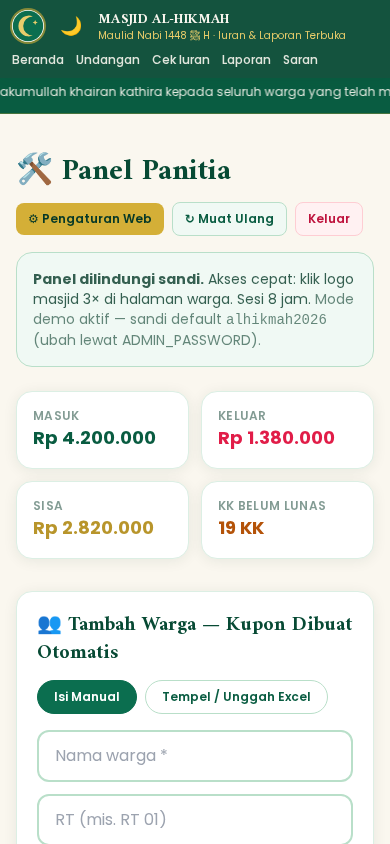
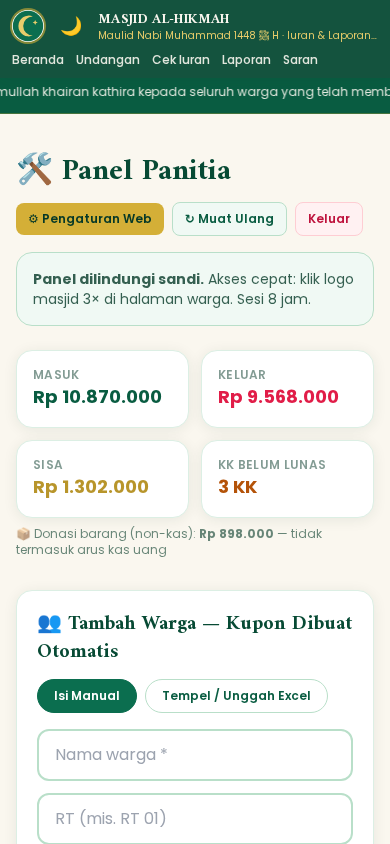
restore konten asli: README gabungan (dokumentasi detail versi awal + hasil pemakaian nyata 85 KK / 82 lunas / kas 10,87 jt), screenshot dari web sungguhan dkm-alhikmah

diff --git a/README.md b/README.md
@@ -1,13 +1,13 @@
 <div align="center">
 
-# 🕌 LPJ Digital untuk Masjid & DKM
+# 🕌 LPJ Digital — Maulid Nabi ﷺ
 
-**Platform laporan pertanggungjawaban yang transparan, realtime, dan gratis —**
-dari iuran warga sampai LPJ siap cetak.
+**Platform laporan pertanggungjawaban transparan untuk masjid & DKM —**
+kupon iuran otomatis, kas live, notifikasi WhatsApp, sampai LPJ siap cetak.
 
-Next.js · Supabase · Vercel · Fonnte (WhatsApp)
+Next.js · Supabase · Vercel · Fonnte (WhatsApp) · **Total biaya: Rp 0**
 
-**[Coba 2 Menit](#-coba-dulu-tanpa-instal-apa-apa) · [Pasang Sendiri](#-pasang-sendiri-gratis-3045-menit) · [Fitur Lengkap](#-fitur)**
+**[Coba 2 Menit](#-menjalankan-mode-demo--tanpa-setup) · [Pasang Sendiri](#-beralih-ke-data-sungguhan-supabase--gratis) · [Hasil Pemakaian Nyata](#-hasil-pemakaian-nyata)**
 
 </div>
 
@@ -20,34 +20,27 @@ Proyek ini lahir dari kebutuhan nyata: **warga minta transparansi, panitia kewal
 > "Uang iuran saya sudah masuk belum?" — pertanyaan yang tiap hari harus
 > dijawab bendahara dengan buka Excel satu per satu.
 
-Untuk Maulid Nabi ﷺ 1448 H, DKM Masjid Al-Hikmah membangun platform ini
-agar **seluruh warga bisa melihat kas secara realtime** — dan saat LPJ
-dibacakan di pengajian, semua angka sudah terbuka, berjalan sendiri,
-lengkap dengan bukti nota.
+Untuk Maulid Nabi ﷺ 1448 H, DKM Masjid Al-Hikmah (Desa Margamulya) membangun
+platform ini agar seluruh warga bisa melihat kas secara realtime. Saat LPJ
+dibacakan di pengajian, semua angka sudah terbuka, berjalan sendiri, lengkap
+dengan bukti nota — dan warga bisa cek sendiri kwitansi iurannya dari HP.
 
-Sekarang kodenya dibagikan **gratis** supaya masjid, mushala, dan DKM
-lain tidak perlu mulai dari nol. **Semoga menjadi amal jariyah.** 🤲
+Sekarang kodenya dibagikan **gratis** supaya masjid, mushala, dan DKM lain
+tidak perlu mulai dari nol. **Semoga menjadi amal jariyah.** 🤲
 
-## ✨ Fitur
+## 📊 Hasil Pemakaian Nyata
 
-**Untuk warga (tanpa login):**
-- 🏠 **Beranda** — progres kas realtime, jadwal sholat, social proof tamu & saran warga
-- 🔎 **Cek Iuran** — cari nama / scan QR kupon → kwitansi digital (sudah bayar / belum)
-- 📊 **Laporan** — arus kas lengkap + foto bukti nota tiap pengeluaran
-- 💌 **Undangan** — RSVP + hitung mundur hari-H
-- 📜 **Proposal** — halaman sponsor interaktif dengan CTA donasi
-- 💬 **Kotak Saran** — masukan warga, tampil setelah dimoderasi
+Ini bukan proyek laboratorium — web ini dipakai sungguhan untuk
+[Maulid Nabi ﷺ 1448 H](https://dkm-alhikmah.vercel.app):
 
-**Untuk panitia (sandi):**
-- 🔐 Panel admin — akses lewat klik logo 3× atau `/admin/login`
-- 👥 CRUD warga — tempel dari Excel, anti-dobel, kelas iuran otomatis (K1/K2/K3/Sponsor)
-- 🎟 Kupon ber-QR — cetak A4 per kelas, kirim via WhatsApp per warga
-- 💰 Catat kas — pemasukan/pengeluaran + upload foto nota (maks 4 MB)
-- 📦 **Donasi barang terpisah dari kas uang** (non-kas, tampil terpisah)
-- 📱 Notifikasi WhatsApp otomatis ke grup panitia (via Fonnte, gratis)
-- ⏰ Rekap harian otomatis jam 20:00 WIB (Vercel Cron) — berhenti sendiri setelah acara
-- 🖨 LPJ siap cetak/PDF (desktop: tabel rapi, HP: kartu)
-- 🌙 Mode gelap + responsif penuh di HP
+- **85 KK** didata dengan kelas ancalah (K1 Rp 150rb · K2 Rp 100rb · K3 Rp 75rb · Sponsor)
+- **82 KK lunas (96%)** — kas masuk **Rp 10.870.000**, donasi barang **Rp 898.000** (non-kas)
+- **121 transaksi** tercatat lengkap dengan foto nota
+- Rekap otomatis ke grup WhatsApp panitia setiap malam
+- LPJ diumumkan terbuka di pengajian — warga cek sendiri lewat HP masing-masing
+
+Semua tangkapan layar di bawah adalah **data sungguhan** dari web tersebut
+(tidak ada informasi rahasia — memang dibuat untuk terbuka).
 
 ## 📸 Tangkapan Layar
 
@@ -59,57 +52,86 @@ lain tidak perlu mulai dari nol. **Semoga menjadi amal jariyah.** 🤲
 |---|---|
 | ![Laporan](docs/img/laporan.png) | ![Admin](docs/img/admin.png) |
 
-*(Semua tangkapan layar memakai data contoh / mode demo.)*
+## ✨ Fitur
 
-## 🚀 Coba Dulu (Tanpa Instal Apa-apa)
+**Halaman publik (tanpa login):**
+- 🏠 **Beranda** — progress dana live, rekap "X dari Y KK sudah lunas",
+  jadwal sholat harian (API aladhan, metode Kemenag, highlight waktu
+  berikutnya + tanggal hijriah), galeri dokumentasi dengan lightbox,
+  social proof tamu & saran warga
+- 🔎 **`/cek-iuran`** — ketik nama (mis. *Asep*) atau kode kupon (*MLD-0001*)
+  → status + **kwitansi digital** (juga bisa lewat scan QR kupon)
+- 📊 **`/laporan`** — rincian kas masuk/keluar, **klik gambar nota** untuk
+  melihat bukti, donasi barang tampil terpisah (non-kas)
+- 💌 **`/undangan`** — undangan digital + rundown + **konfirmasi kehadiran
+  (RSVP)** — nama yang konfirmasi langsung tampil live sebagai calon tamu
+- 📜 **`/proposal`** — proposal sponsor digital interaktif, bisa
+  dipersonalisasi per sponsor (`/proposal?untuk=Nama`), CTA donasi sesuai
+  minat (transfer/kas, sumbang barang, atau tanya panitia dulu)
+- 💬 **`/kotak-saran`** — saran warga (masuk moderasi dulu), tampil sebagai
+  kartu testimonial
+
+**Panel panitia (dilindungi sandi):**
+- 🔐 Akses: **klik logo masjid 3×** di halaman mana pun → login.
+  Login tahan-banting: token di memori + localStorage + cookie + hash URL,
+  sesi 8 jam. Sandi default mode demo: `alhikmah2026` (ganti via `ADMIN_PASSWORD`)
+- 👥 **Tambah warga masal**: manual / tempel daftar / unggah Excel (.xlsx)
+  atau CSV — kolom `Nama; RT; Alamat; Nominal; Kelas` dikenali otomatis,
+  **anti-dobel** (nama sama tidak masuk dua kali)
+- 🎟 **`/admin/kupon`** — cetak kupon per kelas atau khusus sponsor
+  (desain emas, dicetak terpisah), A4 10 kupon/lembar, **QR per kupon**.
+  Tombol **🔧 Perbaiki kupon hilang** membuatkan kupon untuk warga yang
+  belum punya (aman diklik kapan pun). Kirim kupon per warga via WhatsApp
+- 💰 **Catat transaksi** (pemasukan/pengeluaran) + upload foto nota
+  (maks 4 MB) — dengan **pencarian + filter + tampilkan semua**
+  (edit & hapus permanen tidak dibatasi 8 terbaru)
+- 📦 **Donasi barang otomatis terpisah dari kas uang** (kategori
+  "Donasi Barang" = non-kas)
+- 📱 **Notifikasi WhatsApp otomatis** ke grup panitia (via Fonnte, gratis):
+  setiap pemasukan, pengeluaran, dan kupon lunas
+- ⏰ **Rekap harian otomatis jam 20:00 WIB** (Vercel Cron) — berhenti
+  sendiri setelah tanggal acara, plus **pesan penutup** (terima kasih +
+  laporan akhir) yang bisa dikirim manual kapan saja
+- 🧾 **Rekap per RT** untuk juru tagih + tombol kirim ke grup WA
+- 🖨 **`/laporan/cetak`** — LPJ siap cetak/PDF (desktop: tabel rapi,
+  HP: kartu), ringkasan kas + daftar lengkap + bukti
+- ⚙ **`/admin/pengaturan`** — panitia mengedit sendiri TANPA koding:
+  nama masjid/kegiatan, tanggal acara, nomor WA bendahara, rekening & QRIS
+  donasi, kota jadwal sholat, teks berjalan, RAB anggaran, token Fonnte,
+  plus **semua kalimat utama** tiap halaman dengan placeholder
+  `{masjid}`/`{kegiatan}` otomatis
+- 🧹 **Bersihkan data dobel** — deteksi nama sama, pertahankan yang lunas
+- 🌙 **Mode gelap** + responsif penuh di HP
+
+## 🚀 Menjalankan (mode demo — tanpa setup)
 
 ```bash
-git clone https://github.com/mouziqiufashionkids-dev/LPJ-Digital.git
-cd LPJ-Digital
 npm install
 npm run dev
 ```
 
-Buka `http://localhost:3000` → jalan dengan **data contoh (mode demo)**,
-tanpa database, tanpa akun, tanpa konfigurasi. Login panitia demo:
-klik logo 3× → sandi `alhikmah2026`.
+Buka http://localhost:3000 — aplikasi jalan dengan **data contoh**
+(48 KK, transaksi, saran, RSVP). Tanpa database, tanpa akun, tanpa konfigurasi.
 
-> Ingin lihat pemakaian nyata? Lihat
-> [dkm-alhikmah.vercel.app](https://dkm-alhikmah.vercel.app) —
-> LPJ Maulid Nabi ﷺ 1448 H DKM Masjid Al-Hikmah (contoh produksi).
+## 🛠 Beralih ke data sungguhan (Supabase — gratis)
 
-## 🛠 Pasang Sendiri (Gratis, ±30–45 menit)
+1. Buat project gratis di [supabase.com](https://supabase.com)
+2. SQL Editor → jalankan seluruh isi [`supabase/schema.sql`](supabase/schema.sql)
+   (tabel + keamanan RLS + bucket storage otomatis jadi)
+3. Salin `.env.example` jadi `.env.local`, isi:
+   - `NEXT_PUBLIC_SUPABASE_URL` (Project URL)
+   - `SUPABASE_SERVICE_ROLE_KEY` (service_role — yang SECRET)
+   - `ADMIN_PASSWORD` (sandi panitia — **WAJIB ganti!**)
+4. Restart `npm run dev` — data kini tersimpan di database
 
-Semua layanan pakai **free tier** — total biaya **Rp 0**:
+**Deploy ke Vercel (gratis, ±30 menit):** push ke GitHub → vercel.com →
+Import project → Environment Variables (isi 3 nilai di atas) → Deploy.
+Nama project diganti jadi nama jelas (mis. `dkm-masjidku`) biar warga tidak
+curiga penipuan. Panduan lengkap:
+[`docs/DEPLOY.md`](docs/DEPLOY.md) · tanpa terminal sama sekali:
+[`docs/PANDUAN-SETUP-WEBSITE.md`](docs/PANDUAN-SETUP-WEBSITE.md).
 
-| Layanan | Fungsi | Biaya |
-|---|---|---|
-| [Vercel](https://vercel.com) | hosting web | gratis |
-| [Supabase](https://supabase.com) | database + storage foto | gratis |
-| [Fonnte](https://fonnte.com) | kirim WhatsApp ke grup | gratis |
-
-**Ringkasan 4 langkah** (panduan lengkap: [docs/DEPLOY.md](docs/DEPLOY.md)
-atau versi tanpa terminal: [docs/PANDUAN-SETUP-WEBSITE.md](docs/PANDUAN-SETUP-WEBSITE.md)):
-
-1. **Fork/clone** repo ini ke akun GitHub-mu
-2. **Supabase** → new project → jalankan `supabase/schema.sql` di SQL Editor →
-   salin `Project URL` + `service_role` key
-3. **Vercel** → import repo → set env vars → deploy:
-
-   | Env | Isi |
-   |---|---|
-   | `NEXT_PUBLIC_SUPABASE_URL` | Project URL Supabase |
-   | `SUPABASE_SERVICE_ROLE_KEY` | service_role key (jangan kasih awalan `NEXT_PUBLIC_`!) |
-   | `ADMIN_PASSWORD` | sandi panel panitimu **(WAJIB ganti!)** |
-   | `NEXT_PUBLIC_SITE_URL` *(opsional)* | domain custom, mis. `https://masjidku.my.id` |
-   | `CRON_SECRET` *(opsional)* | kunci tambahan untuk melindungi endpoint cron |
-
-4. Buka web-mu → klik logo 3× → login → ganti pengaturan (nama masjid,
-   tanggal acara, rekening) → impor daftar warga → selesai! 🎉
-
-**Pengaturan harian tidak perlu terminal** — nama masjid, tanggal acara,
-marquee, anggaran (RAB), hingga token Fonnte semuanya diedit dari menu
-**Pengaturan Web** di panel panitia.
+Setelah itu **semua pengaturan harian lewat UI** — tanpa terminal, tanpa koding.
 
 ## ❓ FAQ
 
@@ -127,13 +149,36 @@ di menu Pengaturan Web. Setiap transaksi & kupon lunas otomatis terkirim.
 **Bisa untuk acara selain Maulid?** Bisa — nama kegiatan, tanggal, dan
 seluruh teks bisa diganti dari pengaturan (qurban, haul, santunan, dll).
 
-**Data warga aman?** Halaman publik hanya menampilkan nama + status iuran.
-Panel panitia dilindungi sandi, dan semua API panitia lewat middleware
-server-side. *Tetap jangan commit file `.env` ke repo.*
+**Data warga aman?** Halaman publik hanya menampilkan nama + status iuran
+(yang memang tujuannya: transparansi LPJ). Panel panitia dilindungi sandi,
+semua API panitia lewat middleware server-side. Jangan commit `.env`.
+
+## 📈 Status pengembangan
+
+- [x] Konsep v2 ([`docs/KONSEP.md`](docs/KONSEP.md)) + riset web masjid
+      referensi ([`docs/REFERENSI.md`](docs/REFERENSI.md))
+- [x] Branding masjid + logo SVG digambar presisi (bukan AI — tajam di semua ukuran)
+- [x] Halaman publik: beranda live, cek iuran + kwitansi, laporan dengan nota,
+      kotak saran, undangan + RSVP, proposal sponsor
+- [x] Panel panitia tersembunyi & dilindungi sandi (klik logo 3× → login)
+- [x] Tambah warga masal (manual/tempel/Excel/CSV) → kupon otomatis
+- [x] Cetak kupon massal A4 + QR per kupon, per kelas & sponsor terpisah
+- [x] Catat transaksi + upload foto nota + edit/hapus permanen
+- [x] Jadwal sholat harian + galeri dokumentasi
+- [x] **Notifikasi WhatsApp otomatis + rekap harian cron + pesan penutup**
+- [x] **LPJ siap cetak/PDF** (`/laporan/cetak`)
+- [x] Edit warga & pengaturan lewat UI (sinkron kupon + transaksi)
+- [x] Donasi barang terpisah dari kas uang
+- [x] Mode gelap + responsif penuh di HP
+- [x] **Deploy produksi & dipakai sungguhan** —
+      [dkm-alhikmah.vercel.app](https://dkm-alhikmah.vercel.app) 🎉
+- [ ] Ekspor Excel untuk rapat panitia
+- [ ] Tema warna alternatif (biru-putih, dll)
 
 ## 🤝 Berbagi & Kontribusi
 
-- Mau sebar ke masjid lain? Ada template pesannya di [docs/BAGIKAN.md](docs/BAGIKAN.md)
+- Mau sebar ke masjid lain? Template pesannya siap pakai:
+  [`docs/BAGIKAN.md`](docs/BAGIKAN.md)
 - Mau bantu kembangkan? Baca [CONTRIBUTING.md](CONTRIBUTING.md)
 - Menemukan masalah? Buka issue di GitHub
 
@@ -144,7 +189,7 @@ src/app/            halaman publik + panel panitia + API routes
 src/lib/            store (Supabase/demo), notifikasi WA, konten editable
 src/components/     komponen UI (ticker, marquee, kupon, dll)
 supabase/schema.sql skema database (jalankan sekali di SQL Editor)
-docs/               panduan deploy, setup tanpa terminal, berbagi
+docs/               panduan deploy, setup tanpa terminal, kit berbagi
 ```
 
 ## 📜 Lisensi
@@ -157,6 +202,6 @@ Kami hanya mohon doanya: **semoga bermanfaat untuk umat.** 🌙
 <div align="center">
 
 **Barakallahu fiikum** — dibuat dengan ♥ oleh Panitia Maulid Nabi ﷺ 1448 H,
-DKM Masjid Al-Hikmah
+DKM Masjid Al-Hikmah, Desa Margamulya
 
 </div>
